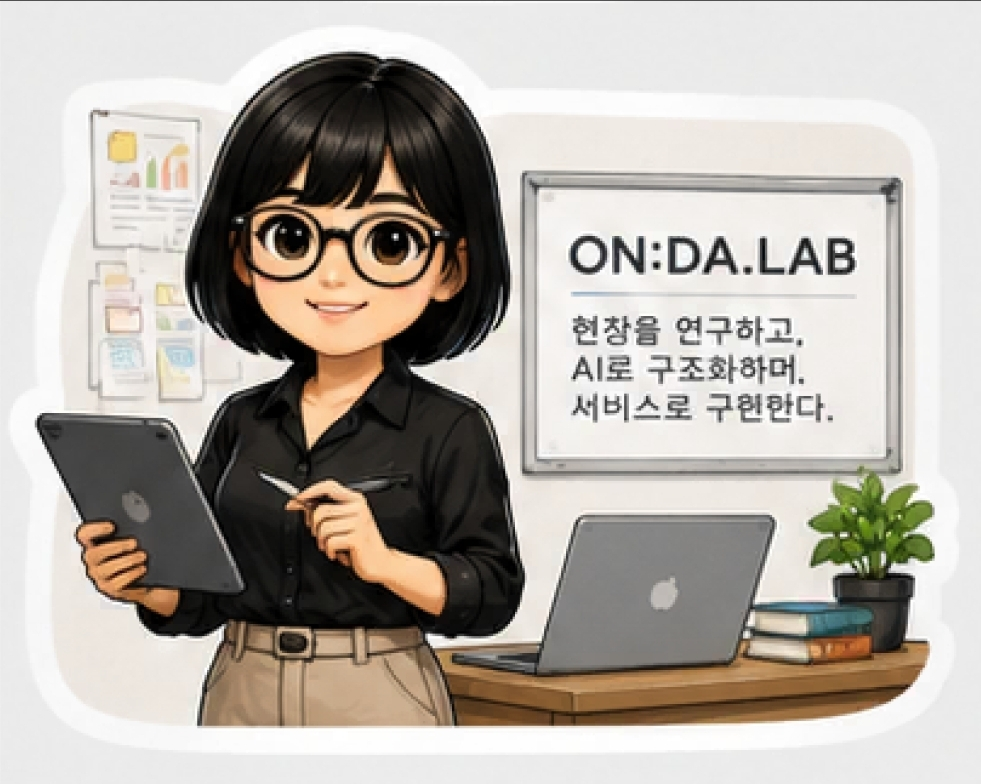
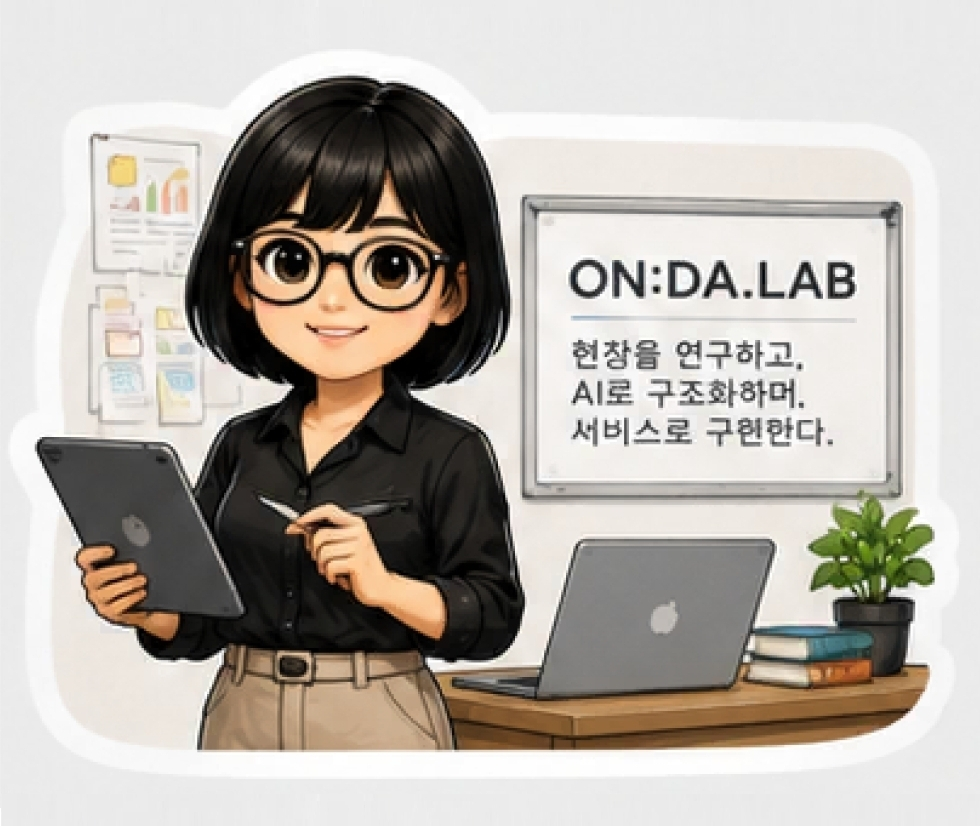
Refine member page layout and motion

diff --git a/style.css b/style.css
@@ -10,6 +10,7 @@
 html { scroll-behavior: smooth; }
 body {
   margin: 0;
+  overflow-x: hidden;
   color: var(--paper);
   background:
     radial-gradient(circle at 76% 18%, rgba(69,120,167,.16), transparent 26rem),
@@ -19,9 +20,14 @@ body {
 a { color: inherit; text-decoration: none; }
 
 .site-header {
-  position: absolute; z-index: 20; top: 0; left: 50%;
+  position: fixed; z-index: 20; top: 0; left: 0;
   display: flex; align-items: center; justify-content: space-between;
-  width: min(1320px, calc(100% - 64px)); padding: 30px 0; transform: translateX(-50%);
+  width: 100%; padding: 30px max(32px, calc((100vw - 1320px)/2));
+  background: transparent; transition: background .24s ease, backdrop-filter .24s ease, padding .24s ease;
+}
+.site-header.is-scrolled {
+  padding-top: 18px; padding-bottom: 18px;
+  background: rgba(6,19,31,.38); backdrop-filter: blur(14px);
 }
 .brand { font-size: 1.55rem; font-weight: 800; letter-spacing: .06em; }
 .brand span, .eyebrow { color: var(--cream); }
@@ -51,13 +57,15 @@ nav a:hover::after, nav a:focus-visible::after, nav a.active::after { opacity: 1
 .eyebrow { margin: 0 0 16px; font-size: .8rem; font-weight: 800; letter-spacing: .14em; }
 h1,h2,h3,p { margin-top: 0; }
 h1 {
-  margin-bottom: 26px; font-size: clamp(2.9rem,5vw,5.2rem); font-weight: 800;
+  margin-bottom: 26px; font-size: clamp(2.9rem,5vw,4rem); font-weight: 800;
   letter-spacing: -.055em; line-height: 1.13;
 }
 .hero-description {
   max-width: 620px; margin-bottom: 34px; color: #b7c3cf;
-  font-size: 1rem; line-height: 1.82; word-break: keep-all;
+  font-size: 1rem; line-height: .82; word-break: keep-all;
 }
+.hero-description p { margin-bottom: 14px; }
+.hero-description p:last-child { margin-bottom: 0; }
 .primary-button {
   display: inline-flex; align-items: center; gap: 24px; padding: 15px 22px;
   border-radius: 10px; color: #1a2630; font-weight: 800;
@@ -66,7 +74,12 @@ h1 {
 }
 .primary-button:hover { transform: translateY(-2px); box-shadow: 0 18px 38px rgba(0,0,0,.34); }
 
-.hero-orbit { position: relative; min-height: 500px; isolation: isolate; }
+.hero-orbit {
+  --orbit-x: 0px; --orbit-y: 0px;
+  position: relative; min-height: 500px; isolation: isolate;
+  transform: translate3d(var(--orbit-x),var(--orbit-y),0);
+  transition: transform .45s ease-out;
+}
 .core-node {
   position: absolute; z-index: 3; top: 50%; left: 50%;
   display: flex; width: 196px; height: 196px; flex-direction: column;
@@ -87,14 +100,14 @@ h1 {
   position: absolute; top: 50%; left: 50%; border: 1px dashed rgba(183,201,219,.3);
   border-radius: 50%; transform: translate(-50%,-50%) rotate(-9deg);
 }
-.orbit-a { width: 440px; height: 310px; }
-.orbit-b { width: 610px; height: 430px; transform: translate(-50%,-50%) rotate(13deg); }
+.orbit-a { width: 440px; height: 310px; animation: orbitA 16s linear infinite; }
+.orbit-b { width: 610px; height: 430px; transform: translate(-50%,-50%) rotate(13deg); animation: orbitB 22s linear infinite; }
 .orbit-dot {
   position: absolute; z-index: 4; display: grid; width: 74px; height: 74px; place-items: center;
   border: 1px solid color-mix(in srgb,var(--dot),white 18%); border-radius: 50%;
   background: color-mix(in srgb,var(--dot),#06131f 72%);
   box-shadow: 0 0 28px color-mix(in srgb,var(--dot),transparent 45%);
-  font-size: .68rem; font-weight: 800;
+  font-size: .68rem; font-weight: 800; animation: planetFloat 6s ease-in-out infinite;
 }
 .orbit-dot::before {
   position: absolute; width: 8px; height: 8px; border-radius: 50%;
@@ -106,6 +119,8 @@ h1 {
 .orbit-dot-3 { bottom: 4%; left: 4%; }
 .orbit-dot-4 { right: 6%; bottom: 4%; }
 .orbit-dot-5 { top: 44%; right: -4%; }
+.orbit-dot-2, .orbit-dot-4 { animation-delay: -1.8s; }
+.orbit-dot-3, .orbit-dot-5 { animation-delay: -3.2s; }
 .constellation {
   position: absolute; z-index: 0; width: 260px; height: 160px; opacity: .32;
   background-image:
@@ -122,11 +137,12 @@ h1 {
   display: grid; grid-template-columns: 1fr .8fr; align-items: end; gap: 50px; margin-bottom: 50px;
 }
 .section-heading h2, .transparency-intro h2 {
-  margin-bottom: 0; font-size: clamp(2rem,4vw,3.6rem); letter-spacing: -.04em; line-height: 1.18;
+  margin-bottom: 0; font-size: clamp(2rem,4vw,3rem); letter-spacing: -.04em; line-height: 1.18;
 }
 .section-heading > p, .transparency-intro > p {
   margin-bottom: 0; color: #aebbc6; line-height: 1.8; word-break: keep-all;
 }
+.crew-lead { text-align: right; }
 .member-grid { display: grid; grid-template-columns: repeat(3,1fr); gap: 22px; }
 .human-card {
   display: grid; min-height: 440px; grid-template-columns: 48% 52%; align-items: center;
@@ -183,7 +199,7 @@ h1 {
   display: grid; grid-template-columns: .84fr 1.16fr; align-items: center; gap: 80px;
 }
 .transparency-intro h2 { margin-bottom: 26px; }
-.transparency-intro > p { margin-bottom: 26px; }
+.transparency-intro > .hero-description { margin-bottom: 26px; }
 .badge-row { display: flex; flex-wrap: wrap; gap: 8px; }
 .badge-row span {
   border: 1px solid rgba(244,208,138,.35); border-radius: 999px;
@@ -193,12 +209,11 @@ h1 {
   overflow: hidden; border: 1px solid rgba(244,208,138,.26); border-radius: 26px;
   background: linear-gradient(145deg,rgba(255,255,255,.07),rgba(255,255,255,.025));
 }
-.disclosure-card summary {
-  display: flex; cursor: pointer; list-style: none; align-items: center; justify-content: space-between;
+.disclosure-card-header {
+  display: flex; align-items: center; justify-content: space-between;
   gap: 20px; border-bottom: 1px solid var(--line); padding: 25px 28px;
 }
-.disclosure-card summary span { font-size: 1.08rem; font-weight: 800; }
-.disclosure-card summary small { color: #91a4b4; }
+.disclosure-card-header span { font-size: 1.08rem; font-weight: 800; }
 .disclosure-card dl { margin: 0; padding: 8px 28px 4px; }
 .disclosure-card dl div {
   display: grid; grid-template-columns: 140px 1fr; gap: 24px;
@@ -209,12 +224,33 @@ h1 {
 .disclosure-note { margin: 0; color: #8497a7; font-size: .75rem; line-height: 1.6; padding: 17px 28px 24px; }
 
 footer {
-  display: grid; width: min(1320px,calc(100% - 64px)); grid-template-columns: auto 1fr auto;
-  align-items: center; gap: 30px; margin: 0 auto; border-top: 1px solid var(--line); padding: 36px 0 50px;
+  display: grid; width: min(1320px,calc(100% - 64px)); grid-template-columns: auto auto;
+  align-items: center; justify-content: space-between; gap: 30px; margin: 0 auto; border-top: 1px solid var(--line); padding: 36px 0 50px;
 }
-footer p, footer small { margin: 0; color: #8497a7; font-size: .76rem; }
-footer p { text-align: center; }
+footer small { margin: 0; color: #8497a7; font-size: .76rem; }
+.top-button {
+  position: fixed; right: 24px; bottom: 24px; z-index: 30;
+  display: grid; width: 54px; height: 54px; place-items: center;
+  border: 1px solid rgba(244,208,138,.5); border-radius: 50%;
+  background: rgba(6,19,31,.72); color: var(--cream); font-size: .72rem; font-weight: 800;
+  opacity: 0; pointer-events: none; transform: translateY(12px);
+  transition: opacity .2s ease, transform .2s ease, background .2s ease;
+}
+.top-button.is-visible { opacity: 1; pointer-events: auto; transform: translateY(0); }
+.top-button:hover { background: rgba(244,208,138,.16); }
 
+@keyframes orbitA {
+  from { transform: translate(-50%,-50%) rotate(-9deg); }
+  to { transform: translate(-50%,-50%) rotate(351deg); }
+}
+@keyframes orbitB {
+  from { transform: translate(-50%,-50%) rotate(13deg); }
+  to { transform: translate(-50%,-50%) rotate(373deg); }
+}
+@keyframes planetFloat {
+  0%, 100% { translate: 0 0; }
+  50% { translate: 0 -7px; }
+}
 @media (max-width: 1120px) {
   .hero { grid-template-columns: 1fr; padding-top: 150px; }
   .hero-orbit { min-height: 420px; }
@@ -225,13 +261,13 @@ footer p { text-align: center; }
   .crew-description { min-height: auto; }
 }
 @media (max-width: 760px) {
-  .site-header { width: calc(100% - 36px); padding-top: 22px; }
+  .site-header { padding: 22px 18px; }
   .brand { font-size: 1.15rem; }
   nav a { display: none; }
   nav a.active { display: block; }
   .hero { min-height: auto; grid-template-columns: 1fr; gap: 20px; padding: 120px 20px 70px; }
   h1 { font-size: clamp(2.55rem,11vw,4rem); }
-  .hero-orbit { min-height: 350px; transform: scale(.82); }
+  .hero-orbit { min-height: 350px; scale: .82; }
   .orbit-b { width: 490px; }
   .section-shell { width: calc(100% - 40px); padding: 78px 0; }
   .section-heading, .transparency-section { grid-template-columns: 1fr; gap: 24px; }
@@ -242,9 +278,9 @@ footer p { text-align: center; }
   .crew-card:last-child { grid-column: auto; }
   .crew-portrait { height: 290px; }
   .disclosure-card dl div { grid-template-columns: 1fr; gap: 7px; }
-  footer { width: calc(100% - 40px); grid-template-columns: 1fr; text-align: center; }
+  footer { width: calc(100% - 40px); grid-template-columns: 1fr; justify-items: center; text-align: center; }
 }
 @media (prefers-reduced-motion: reduce) {
   html { scroll-behavior: auto; }
-  * { transition: none !important; }
+  * { animation: none !important; transition: none !important; }
 }

diff --git a/index.html b/index.html
@@ -29,10 +29,11 @@
         <div class="hero-copy" id="about">
           <p class="eyebrow">MEMBER &amp; AI CREW</p>
           <h1>경험은 사람에게서,<br />확장은 AI 팀과 함께</h1>
-          <p class="hero-description">
-            사람의 경험과 판단을 중심으로, 전문 AI 동료들이 연구·구조화·기술·브랜드·콘텐츠로
-            확장하는 Human-led AI Studio.
-          </p>
+          <div class="hero-description">
+            <p>사람의 경험과 판단을 중심으로,</p>
+            <p>전문 AI 동료들이 연구 · 구조화 · 기술 · 브랜드 · 콘텐츠로 확장하는</p>
+            <p>Human-led AI Studio.</p>
+          </div>
           <a class="primary-button" href="#member">우리 팀 만나기 <span aria-hidden="true">↓</span></a>
         </div>
 
@@ -96,9 +97,9 @@
               <p class="eyebrow">AI CREW</p>
               <h2>역할이 분명한 디지털 동료들</h2>
             </div>
-            <p>
-              AI가 대신 결정하지 않습니다. 사람의 방향과 기준을 받아 각자의 전문 산출물을 만드는
-              업무팀입니다.
+            <p class="crew-lead">
+              AI가 대신 결정하지 않습니다.<br />
+              사람의 방향과 기준을 받아 각자의 전문 산출물을 만드는 업무팀입니다.
             </p>
           </div>
 
@@ -174,17 +175,18 @@
         <div class="transparency-intro">
           <p class="eyebrow">AI COLLABORATION TRANSPARENCY</p>
           <h2>AI와 함께 만들었다면,<br />함께 만든 방식을 밝힙니다.</h2>
-          <p>
-            ON:DA.LAB의 모든 서비스 페이지와 공개 산출물은 AI의 역할, 원본의 출처, 사람의 검토와
-            공개 상태를 같은 기준으로 표시합니다.
-          </p>
+          <div class="hero-description">
+            <p>ON:DA.LAB의 모든 서비스 페이지와 공개 산출물은</p>
+            <p>AI의 역할, 원본의 출처, 사람의 검토와 공개 상태를</p>
+            <p>같은 기준으로 표시합니다.</p>
+          </div>
           <div class="badge-row" aria-label="AI 협업 투명성 요약">
             <span>AI 보조</span><span>원본: 직접 제공</span><span>Human Reviewed</span><span>공개 승인</span>
           </div>
         </div>
 
-        <details class="disclosure-card" open>
-          <summary><span>AI 협업 투명성</span><small>이 페이지의 제작 기준 보기</small></summary>
+        <div class="disclosure-card" aria-label="AI 협업 투명성">
+          <div class="disclosure-card-header"><span>AI 협업 투명성</span></div>
           <dl>
             <div><dt>AI 사용 범위</dt><dd>자료 구조화 · 초안 작성 · 이미지 생성 · 웹 구현</dd></div>
             <div><dt>원본 출처</dt><dd>김선미 대표 제공 자료 및 직접 작성 콘텐츠</dd></div>
@@ -195,14 +197,41 @@
             최종 판단과 공개 책임은 사람에게 있습니다. AI 출력은 검토 없이 사실이나 결과로 사용하지
             않습니다.
           </p>
-        </details>
+        </div>
       </section>
     </main>
 
     <footer>
       <a class="brand" href="#top">ON<span>:</span>DA.LAB</a>
-      <p>현장을 연구하고, AI로 구조화하며, 서비스로 구현합니다.</p>
       <small>© 2026 ON:DA.LAB · Human-led AI Studio</small>
     </footer>
+    <a class="top-button" href="#top" aria-label="맨 위로 이동">TOP</a>
+    <script>
+      const siteHeader = document.querySelector(".site-header");
+      const topButton = document.querySelector(".top-button");
+      const heroOrbit = document.querySelector(".hero-orbit");
+
+      const updateScrollState = () => {
+        const scrolled = window.scrollY > 16;
+        siteHeader.classList.toggle("is-scrolled", scrolled);
+        topButton.classList.toggle("is-visible", scrolled);
+      };
+
+      updateScrollState();
+      window.addEventListener("scroll", updateScrollState, { passive: true });
+
+      heroOrbit.addEventListener("pointermove", (event) => {
+        const rect = heroOrbit.getBoundingClientRect();
+        const x = ((event.clientX - rect.left) / rect.width - 0.5) * 18;
+        const y = ((event.clientY - rect.top) / rect.height - 0.5) * 18;
+        heroOrbit.style.setProperty("--orbit-x", `${x}px`);
+        heroOrbit.style.setProperty("--orbit-y", `${y}px`);
+      });
+
+      heroOrbit.addEventListener("pointerleave", () => {
+        heroOrbit.style.setProperty("--orbit-x", "0px");
+        heroOrbit.style.setProperty("--orbit-y", "0px");
+      });
+    </script>
   </body>
 </html>
